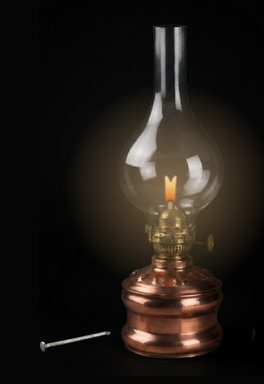
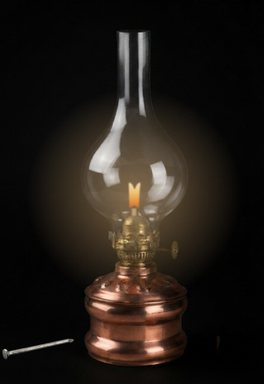
Lamp: tap with the nail's head, not its point, and centre the card on the lamp
Claude-Session: https://claude.ai/code/session_01FnXtnCk8kjRN2ZpYtjVmjB

diff --git a/lamp/index.html b/lamp/index.html
@@ -479,7 +479,7 @@
 
   // The copper reservoir's own outline, measured off the photograph by hue: the
   // half-width of the body at each height, about the axis the lamp stands on. It is
-  // what the nail's point meets, and what decides whether a tap landed above the
+  // what the nail's head meets, and what decides whether a tap landed above the
   // oil or below it.
   const BASE_CX = 429;
   const BASE = [[878,58],[886,88],[894,110],[904,124],[916,129],[926,138],[936,153],
@@ -609,9 +609,15 @@
                  lift:0, recoil:0, armed:true };
   let grabU=0, grabV=0, nailSpeed=0, lastPx=null, lastPy=null;
 
-  function nailTip(){
-    return { x: nail.x + Math.cos(nail.a)*NAIL_LEN/2,
-             y: nail.y + Math.sin(nail.a)*NAIL_LEN/2 };
+  /* IT IS HELD BY THE POINT AND TAPPED WITH THE HEAD. Hers, Sep 2026, remembering
+     the lamp itself: "we held the nail by the point and tapped with the head." The
+     piece had it the other way about -- the point met the copper, which is the wrong
+     end of a nail to strike soft metal with, and not what her family did. So the
+     striking end is the HEAD, the end away from the hand's grip along the nail's
+     own axis, and the facing below turns it head-first rather than point-first. */
+  function strikeEnd(){
+    return { x: nail.x - Math.cos(nail.a)*NAIL_LEN/2,
+             y: nail.y - Math.sin(nail.a)*NAIL_LEN/2 };
   }
   function nailHit(px, py){
     const dx=px-nail.x, dy=py-nail.y, c=Math.cos(-nail.a), sn=Math.sin(-nail.a);
@@ -623,18 +629,18 @@
     const halfV = Math.max(13, 22/(photoScale||1));
     return Math.abs(u) <= NAIL_LEN/2 + 8 && Math.abs(v) <= halfV;
   }
-  let approach = -1;                 // which side of the lamp the point came from
+  let approach = -1;                 // which side of the lamp the head came from
   function collide(){
-    const tp = nailTip();
+    const tp = strikeEnd();
     const hw = baseHalfW(tp.y);
     const off = tp.x - BASE_CX;
     const pen = hw > 0 ? hw - Math.abs(off) : -999;
     if (pen <= 0 && hw > 0) approach = off < 0 ? -1 : 1;
     if (pen > 0){
-      // The point stops ON the surface rather than going into it, which is what
+      // The head stops ON the surface rather than going into it, which is what
       // makes it read as a tap instead of the nail sinking through the copper. It
       // is put back on the side it CAME from, not the side it happens to be on: a
-      // quick drag can carry the point clean past the axis in one frame, and
+      // quick drag can carry the head clean past the axis in one frame, and
       // pushing it out by the shorter way then shot the nail out the far side.
       nail.x += (BASE_CX + approach*hw) - tp.x;
       if (nail.armed){
@@ -709,9 +715,9 @@
     }
     // it leans a little with the hand carrying it -- a thing being carried, not a
     // sprite being slid about -- and it TURNS IN THE HAND to face whichever side of
-    // the lamp it is being brought in from. Its facing used to be fixed: the point
-    // always faced right, so carried round to the far side it faced away from the
-    // copper and the tip never met it at all. Her report off the machines: "the tap
+    // the lamp it is being brought in from. Its facing used to be fixed: the head
+    // always faced left, so carried round to the far side it faced away from the
+    // copper and never met it at all. Her report off the machines: "the tap
     // only works on the left side of the lamp base". The 40-unit hysteresis is
     // load-bearing -- flipping on the axis itself spins the nail round every time
     // the hand crosses the middle of the lamp, which is most of the way to it.
@@ -720,7 +726,9 @@
     if (nail.x < BASE_CX - 40) nail.face = 1;
     else if (nail.x > BASE_CX + 40) nail.face = -1;
     const lean = Math.max(-0.14, Math.min(0.14, my*0.010));
-    const want = nail.face > 0 ? HOME.a + lean : Math.PI - HOME.a - lean;
+    // half a turn from where this used to sit, so the HEAD leads and the point is
+    // back toward the hand -- the same mirrored geometry, the other end forward
+    const want = nail.face > 0 ? HOME.a + lean + Math.PI : -HOME.a - lean;
     let turn = (want - nail.a) % (Math.PI*2);
     if (turn >  Math.PI) turn -= Math.PI*2;      // always the short way round
     if (turn < -Math.PI) turn += Math.PI*2;

diff --git a/notes/lamp.md b/notes/lamp.md
@@ -102,3 +102,29 @@ button is not free once a piece has something of its own in that corner.
 Aug 2026: the old one predated the whole fuel system, so it showed a lamp with **no nail beside it** —
 and the nail is now how anybody finds out the lamp has a level at all. Framed by measuring the lamp's
 own painted extent and the nail's, so both are in shot and the oil can's corner button is not.
+
+**HELD BY THE POINT, TAPPED WITH THE HEAD.** Hers, 4 Sep 2026, first thought on picking the piece up
+again: *"we held the nail by the point and tapped with the head."* The piece had it the other way
+about — `nailTip()` returned the `+a` end, which is the point, so the point met the copper. Wrong end
+on both counts: it is not what her family did, and a point is the wrong end of a nail to strike soft
+copper with. The striking end is now `strikeEnd()`, the `-a` end, which is the **head**; and the
+facing that turns the nail to whichever side it is brought in from is turned through half a circle
+(`HOME.a + lean + PI` and `-HOME.a - lean`), so the head leads and the point sits back toward the
+hand. **The geometry is exactly mirrored, so the earlier repair is untouched** — the four approaches
+that were measured then (left and right, high and low) were re-run before and after: the same taps
+land at all four, and the striking end went from **143/155 units from the lamp's axis against the
+point's 371/383, to the reverse** — head 143/155, point 371/383. The nail turns 180° as it is picked
+up, which is a nail being turned in the hand and is the same idiom the side-flip already used. The
+`approach` hysteresis, the on-surface stop, the above/below-oil pitch and the sound are all unchanged.
+
+**THE CARD IS CENTRED ON THE LAMP NOW.** Hers, the same day: *"could the lamp still be centered on
+the card with the nail beside it? it seems a bit odd, not being sure which is the focus."* Correct,
+and measurable: the copper base sat at **62.5% across** the old card with a wide empty dark field to
+its left, so the nail read as a second subject rather than a companion. The old card had been cropped
+off-centre to fit the nail in. It did not need to be: `wicklampblack.png` is 848x1239 and the lamp's
+axis is at **429**, four pixels off the photograph's own centre — so the **whole width** of the photo
+is a lamp-centred frame with the nail already in it at the bottom left. Reshot as exactly that, with
+the surplus height taken off the **top**, where there is nothing but dark above the chimney. Measured
+after: copper base at **48.8%**, lit content centroid 62.8% → 49.0%. **Still 440x640**, so no card on
+the wall moves and `card-thumbs.py` reported the `card-art` block already current; the small
+`lamp-card-sm.jpg` was rebuilt by the same tool. The oil can's corner button is out of shot as before.

diff --git a/CLAUDE.md b/CLAUDE.md
@@ -141,7 +141,7 @@ grow back. Her call, 3 Sep 2026: *"we can always cache it and use it for referen
 | `index.html` | — | — | Landing page: five shelves on a dark wall ("sagne"), all 20 pieces. `notes/wall.md` |
 | `candler/index.html` | ✅ | ✅ | *Sagne Candle* — an interactive candle (`candler_5.html` is an unlinked alternate). **Done** and through the four machines; the first piece through that test and the standard for the rest. She uses it daily in place of an alarm. `notes/candler.md` |
 | `roller/index.html` | ✅ | ✅ | *Roller* — a wooden tray you tilt to roll a pebble, disc or jellybean stone. **Done**, through the four machines. `notes/roller.md` |
-| `lamp/index.html` | ✅ | ✅ | An oil lamp: trim the wick and the flame follows. The fuel that burns down, her father's ten penny nail for tapping the level, the sputter, and the oil can are Aug 2026 builds; the ✅ was given for wick and flame and predates all of it. Not run on the machines since. `notes/lamp.md` |
+| `lamp/index.html` | ✅ | ✅ | An oil lamp: trim the wick and the flame follows. The fuel that burns down, her father's ten penny nail for tapping the level, the sputter, and the oil can are Aug 2026 builds; the ✅ was given for wick and flame and predates all of it. Sep 2026: the nail is **held by the point and tapped with the head**, her family's way round, and the card is recentred on the lamp. Not run on the machines since. `notes/lamp.md` |
 | `warmler/index.html` | ✅ | ✅ | A warming plate with selectable metal finishes (`warmler-picker-concept.html` is an unlinked concept). **Done**, through the four machines with nothing to repair. `notes/warmler.md` |
 | `rain/index.html` | ✅ | ✅ | Rain on glass. **Done** — *"as done as i can make it without an animating software"*: don't propose rebuilding it. Through the four machines. `notes/rain.md` |
 | `ant/index.html` | ✅ |  | Ants foraging on a tray, with a lollipop, pebble, leaf and twig. Sep 2026: a carrier holds a crumb rather than turning purple, each ant has its own pace and stops to antennate, and ants are bodies that give way; 4 Sep, off her report of a jerky halt, they run down into most stops and gather speed out of all of them. Her verdict on the first *"significantly improved"*; not run on the machines. `notes/ant.md` |
